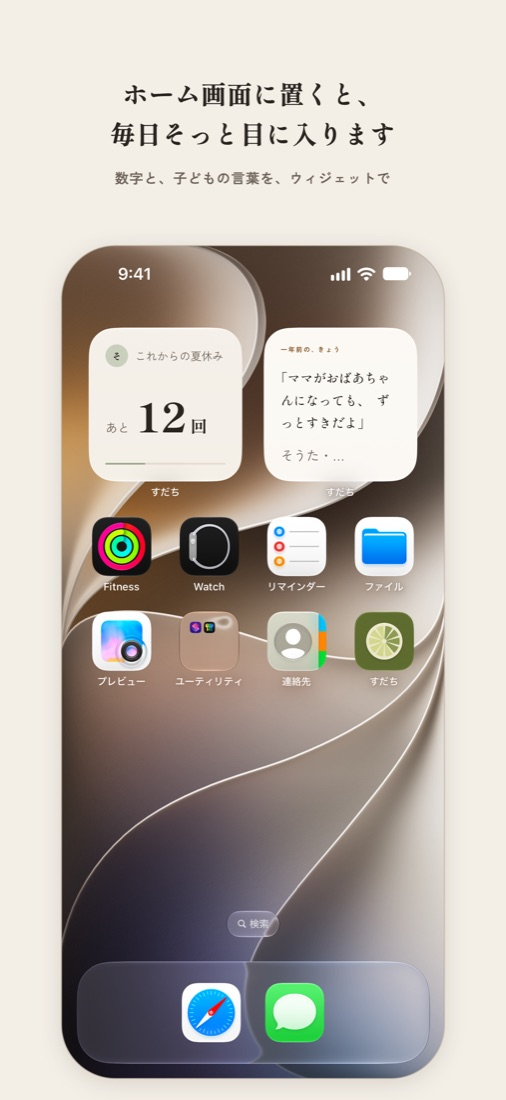
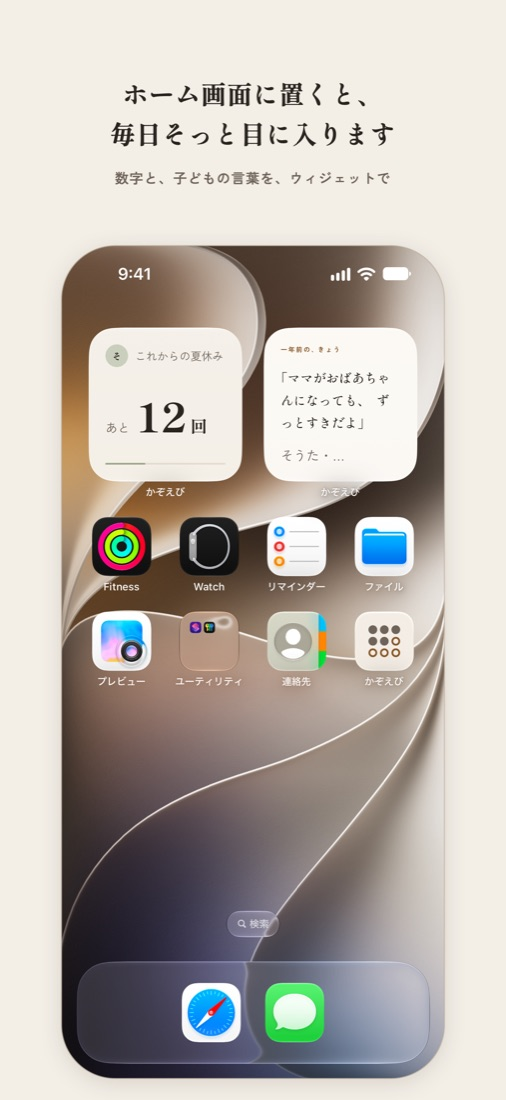
かぞえびのアイコンとスクリーンショット 2・5 を新しいものに差し替える
アプリのアイコンを丸の案に変えたのに合わせて、紹介ページとトップのアイコン、
スクリーンショットの 2（ウィジェット）・5（シェア）を差し替える。
アイコンの地と画面の地が同じ色なので、アプリと同じく細い枠を付ける。

Changed region(s): [[0.6818, 0.5564, 0.83, 0.6182], [0.6522, 0.4327, 0.7115, 0.4636], [0.2964, 0.4327, 0.3557, 0.4636]]

diff --git a/style.css b/style.css
@@ -101,7 +101,7 @@ li { margin: 4px 0; }
   text-decoration: none;
 }
 
-.card img { width: 64px; height: 64px; border-radius: 15px; flex: none; }
+.card img { width: 64px; height: 64px; border-radius: 15px; flex: none; box-sizing: border-box; border: 1px solid var(--hairline); }
 .card .name { font-family: var(--mincho); font-weight: 700; font-size: 18px; }
 
 .button {
@@ -116,7 +116,7 @@ li { margin: 4px 0; }
 }
 
 .hero { text-align: center; }
-.hero .icon { width: 96px; height: 96px; border-radius: 22px; }
+.hero .icon { width: 96px; height: 96px; border-radius: 22px; box-sizing: border-box; border: 1px solid var(--hairline); }
 .hero h1 { font-size: 34px; margin: 16px 0 4px; letter-spacing: 0.2em; }
 
 .shots {
